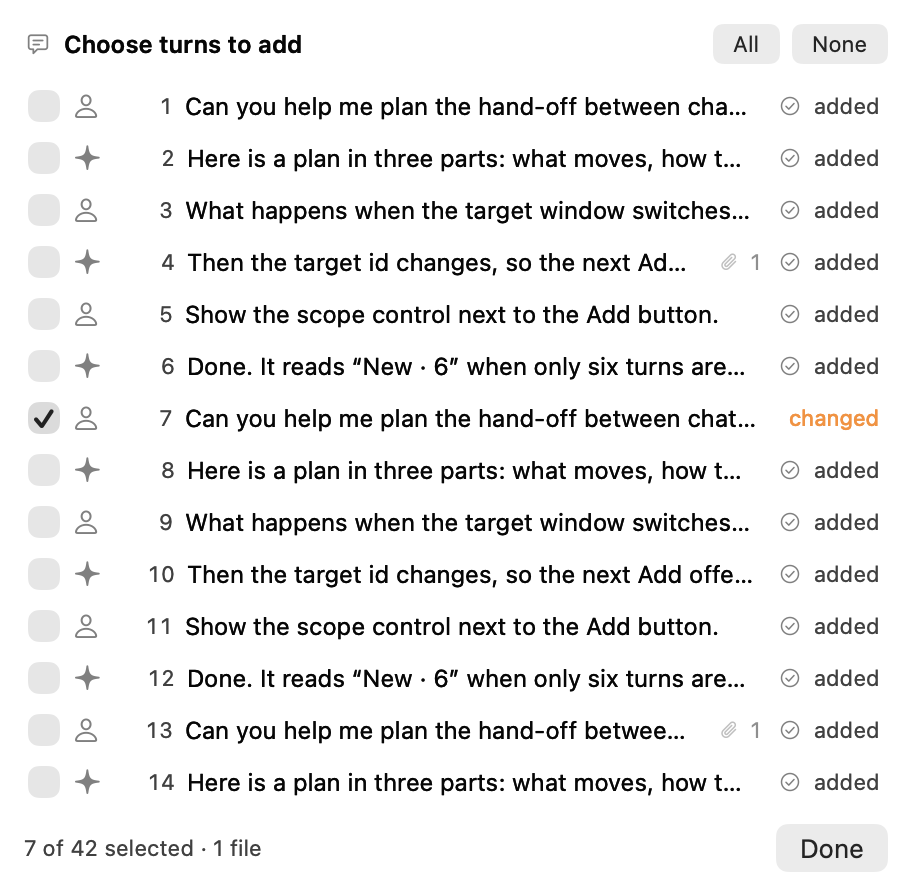
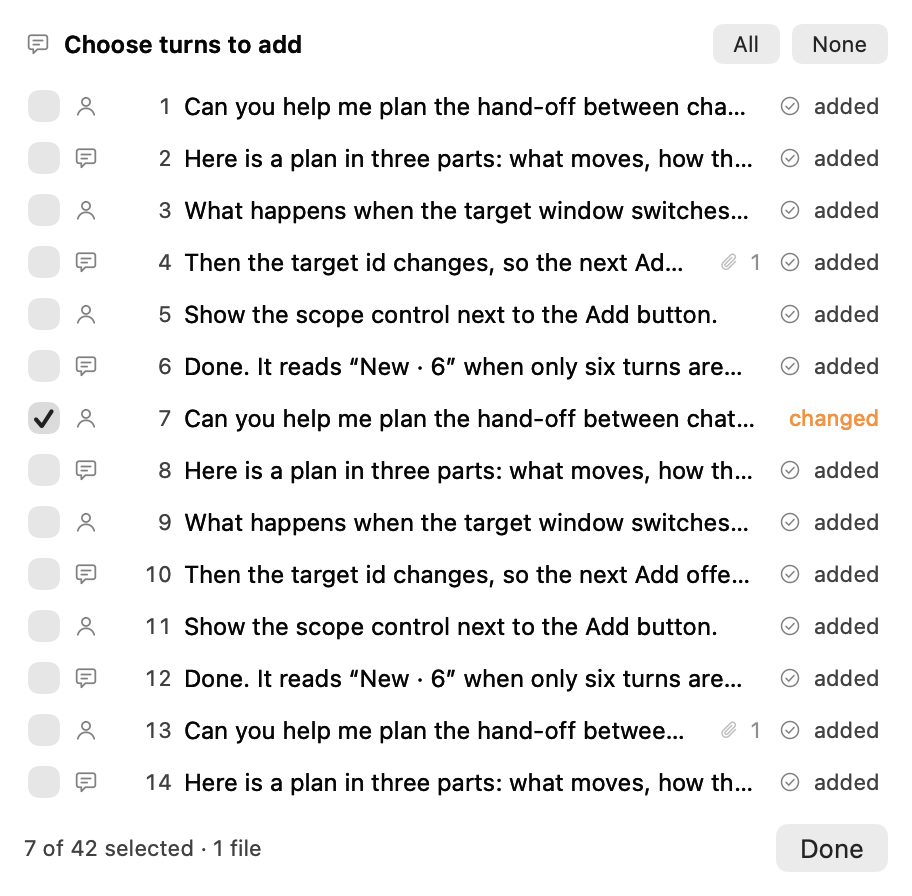
Use our own glyphs for turn roles; plan terminal windows and tabs as destinations

diff --git a/native/TurnPicker.swift b/native/TurnPicker.swift
@@ -151,8 +151,8 @@ final class TurnRow: NSTableCellView {
     func show(_ turn: TurnInfo, checked: Bool, note text: String?) {
         box.state = checked ? .on : .off
         box.setAccessibilityLabel("Turn \(turn.position), \(turn.role == "user" ? "you" : "ChatGPT")")
-        role.image = NSImage(systemSymbolName: turn.role == "user" ? "person" : "sparkle",
-                             accessibilityDescription: turn.role == "user" ? "You" : "ChatGPT")
+        role.image = glyph(turn.role == "user" ? "person" : "chat", size: 14)
+        role.setAccessibilityLabel(turn.role == "user" ? "You" : "ChatGPT")
         number.stringValue = "\(turn.position)"
         preview.stringValue = turn.preview.isEmpty ? "(no text)" : turn.preview
         preview.textColor = turn.preview.isEmpty ? .tertiaryLabelColor : .labelColor

diff --git a/docs/roadmap.md b/docs/roadmap.md
@@ -15,7 +15,12 @@ The menu-bar app (0.5.0) is the first form. ChatGPT is the source, and the desti
    - Next: install it in the owner's DeepSeek Harness and record what holds; check whether the interfaces it uses (exact `/api` routes, right-sidebar tab types, input actions) survive the next release candidate.
 2. **Claude mod.** Waits until Claude's newly released mod format settles, so the port is an adaptation rather than a rewrite.
 3. **Your own browser as an optional source.** No second sign-in: a browser extension reads the conversation in the tab you already use. Prefer a plain content script limited to chatgpt.com and the few hosts it needs; ask for `debugger` only if something turns out to need it, since it shows a permanent "being debugged" bar and draws stricter store review. It feeds the same shared format, so nothing downstream changes.
-4. **More chat providers.** Claude chat first, so a Claude conversation can be added to a harness composer too.
+4. **Terminal windows and tabs as destinations.** Owner's decision (2026-10-16): adapt at the level of the terminal window or tab, not per TUI agent, since agent TUIs are many and change often. Safety rules, because a terminal may be showing a shell rather than an agent:
+   - Never type or paste multi-line text, and never press Return. The hand-off goes to a file in the conversation's folder, and the terminal receives one line: an `@"/path/handoff.md"` reference (or the bare path), with no newline. At a shell prompt that is an unexecuted line; in an agent TUI it is a file mention.
+   - Target a specific tab (Terminal.app and iTerm2 expose windows, tabs and each tab's tty); say which tab, and show its foreground process name so the user can see whether it is an agent or a shell.
+   - Prefer the terminal's own paste over synthetic keystrokes, so bracketed paste applies.
+   - Needs its own adapter and tests; until then terminals stay excluded from the picker.
+5. **More chat providers.** Claude chat first, so a Claude conversation can be added to a harness composer too.
 
 ## Shape that keeps this N + M, not N × M
 
